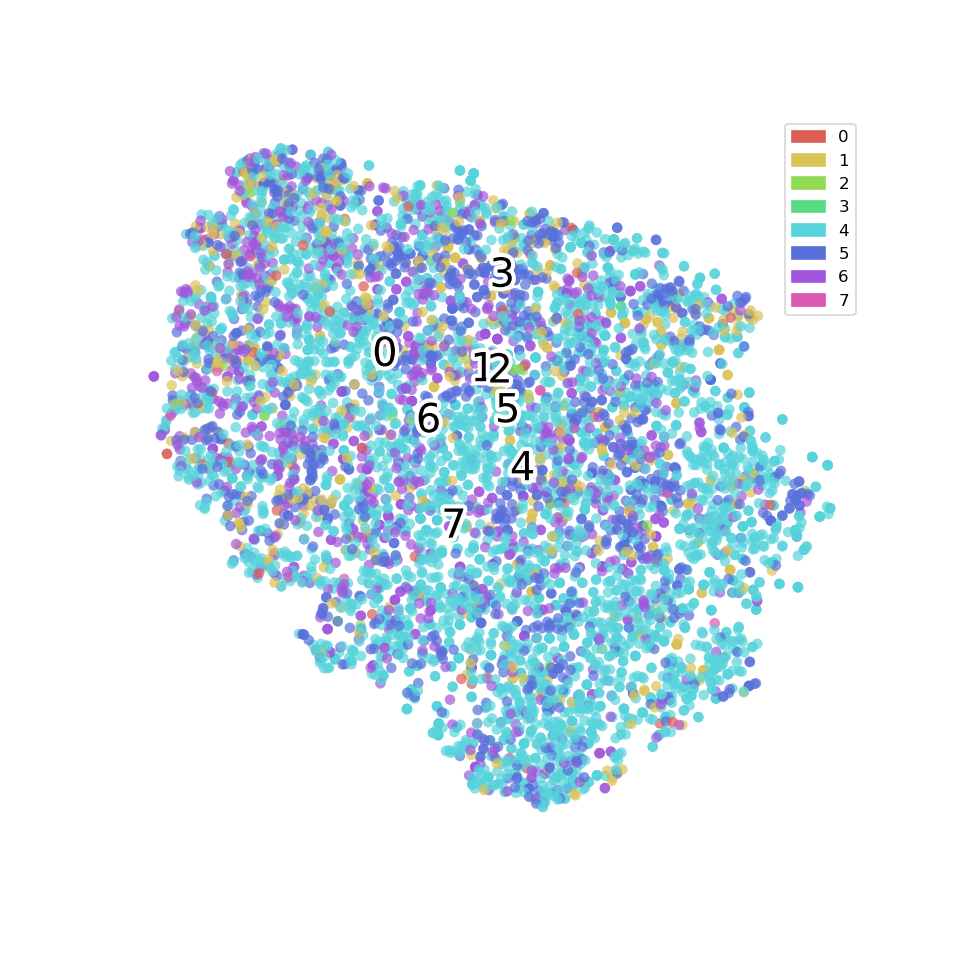
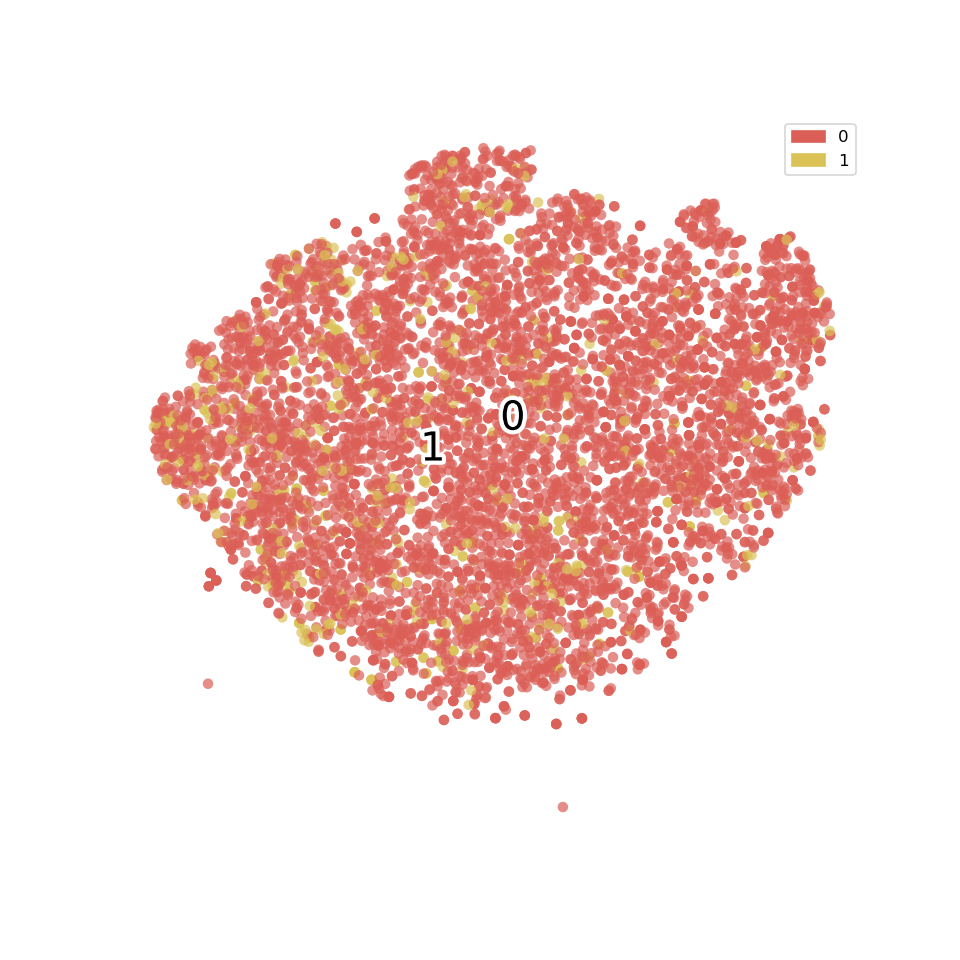
update multimodal visualization

diff --git a/visualization/tsne.py b/visualization/tsne.py
@@ -8,18 +8,28 @@ import matplotlib.patheffects as PathEffects
 import matplotlib.patches as mpatches
 import seaborn as sns
 import pandas as pd
-
+from sklearn.preprocessing import StandardScaler
 image_emb = np.load('../unimodality/image/train_image_embedding.npy')
 text_w2v_emb = np.load('../unimodality/language/word2vec.npy')
 text_bert_emb = np.load('../unimodality/language/bert.npy')
 
-image_tsne = TSNE(n_components=2).fit_transform(image_emb)
-text_w2v_tsne = TSNE(n_components=2).fit_transform(text_w2v_emb)
-text_bert_tsne = TSNE(n_components=2).fit_transform(text_bert_emb)
+mulmodal_wen_emb = np.load('../multimodality/baseline_wen_embeding.npy')
+mulmodal_con_emb = np.load('../multimodality/input_concat.npy')
+mulmodal_vae_emb = np.load('../multimodality/vae_joint_representation.npy')
+
+image_tsne = TSNE(n_components=2).fit_transform(StandardScaler().fit_transform(image_emb))
+text_w2v_tsne = TSNE(n_components=2).fit_transform(StandardScaler().fit_transform(text_w2v_emb))
+text_bert_tsne = TSNE(n_components=2).fit_transform(StandardScaler().fit_transform(text_bert_emb))
+
+mulmodal_wen_tsne = TSNE(n_components=2).fit_transform(StandardScaler().fit_transform(mulmodal_wen_emb))
+mulmodal_con_tsne = TSNE(n_components=2).fit_transform(StandardScaler().fit_transform(mulmodal_con_emb))
+mulmodal_vae_tsne = TSNE(n_components=2).fit_transform(StandardScaler().fit_transform(mulmodal_vae_emb))
 
 train_df = pd.read_excel("../train_cleaned.xlsx")
 label_image = train_df["label_image"].values
 label_text = train_df["label_text"].values
+
+label = train_df["anomaly"].values
 
 def scatter(x, label):
     # We choose a color palette with seaborn.
@@ -38,7 +48,8 @@ def scatter(x, label):
     plt.xlim(-25, 25)
     plt.ylim(-25, 25)
     
-    ls = [mpatches.Patch(color=palette[i],label=str(i)) for i in range(8)]
+    #ls = [mpatches.Patch(color=palette[i],label=str(i)) for i in range(8)]
+    ls = [mpatches.Patch(color=palette[i],label=str(i)) for i in range(2)]
     ax.legend(handles=ls)
     ax.axis('off')
     ax.axis('tight')
@@ -56,11 +67,20 @@ def scatter(x, label):
 
     return f, ax, sc, txts
 
-scatter(image_tsne, label_image)
+scatter(image_tsne, label)
 plt.savefig('image_tsn.png', dpi=120)
 
-scatter(text_w2v_tsne, label_text)
+scatter(text_w2v_tsne, label)
 plt.savefig('text_w2v_tsne.png', dpi=120)
 
-scatter(text_bert_tsne, label_text)
+scatter(text_bert_tsne, label)
 plt.savefig('text_bert_tsne.png', dpi=120)
+
+scatter(mulmodal_wen_tsne, label)
+plt.savefig('mulmodal_wen_tsne.png', dpi=120)
+
+scatter(mulmodal_con_tsne, label)
+plt.savefig('mulmodal_con_tsne.png', dpi=120)
+
+scatter(mulmodal_vae_tsne, label)
+plt.savefig('mulmodal_vae_tsne.png', dpi=120)
